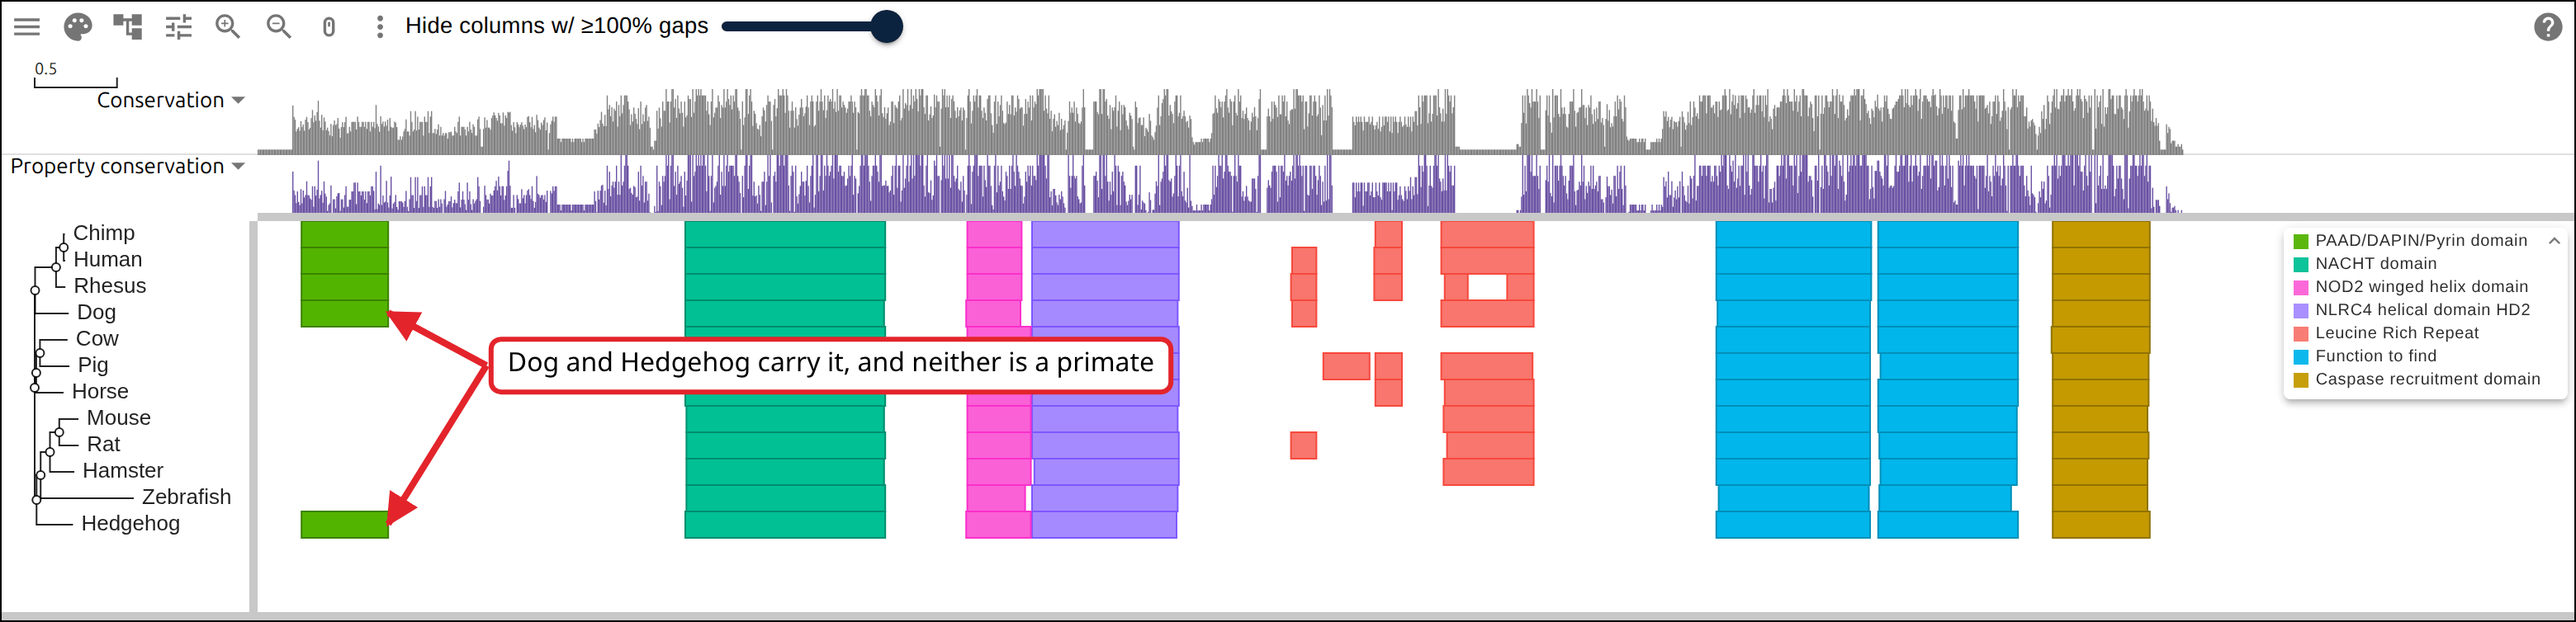
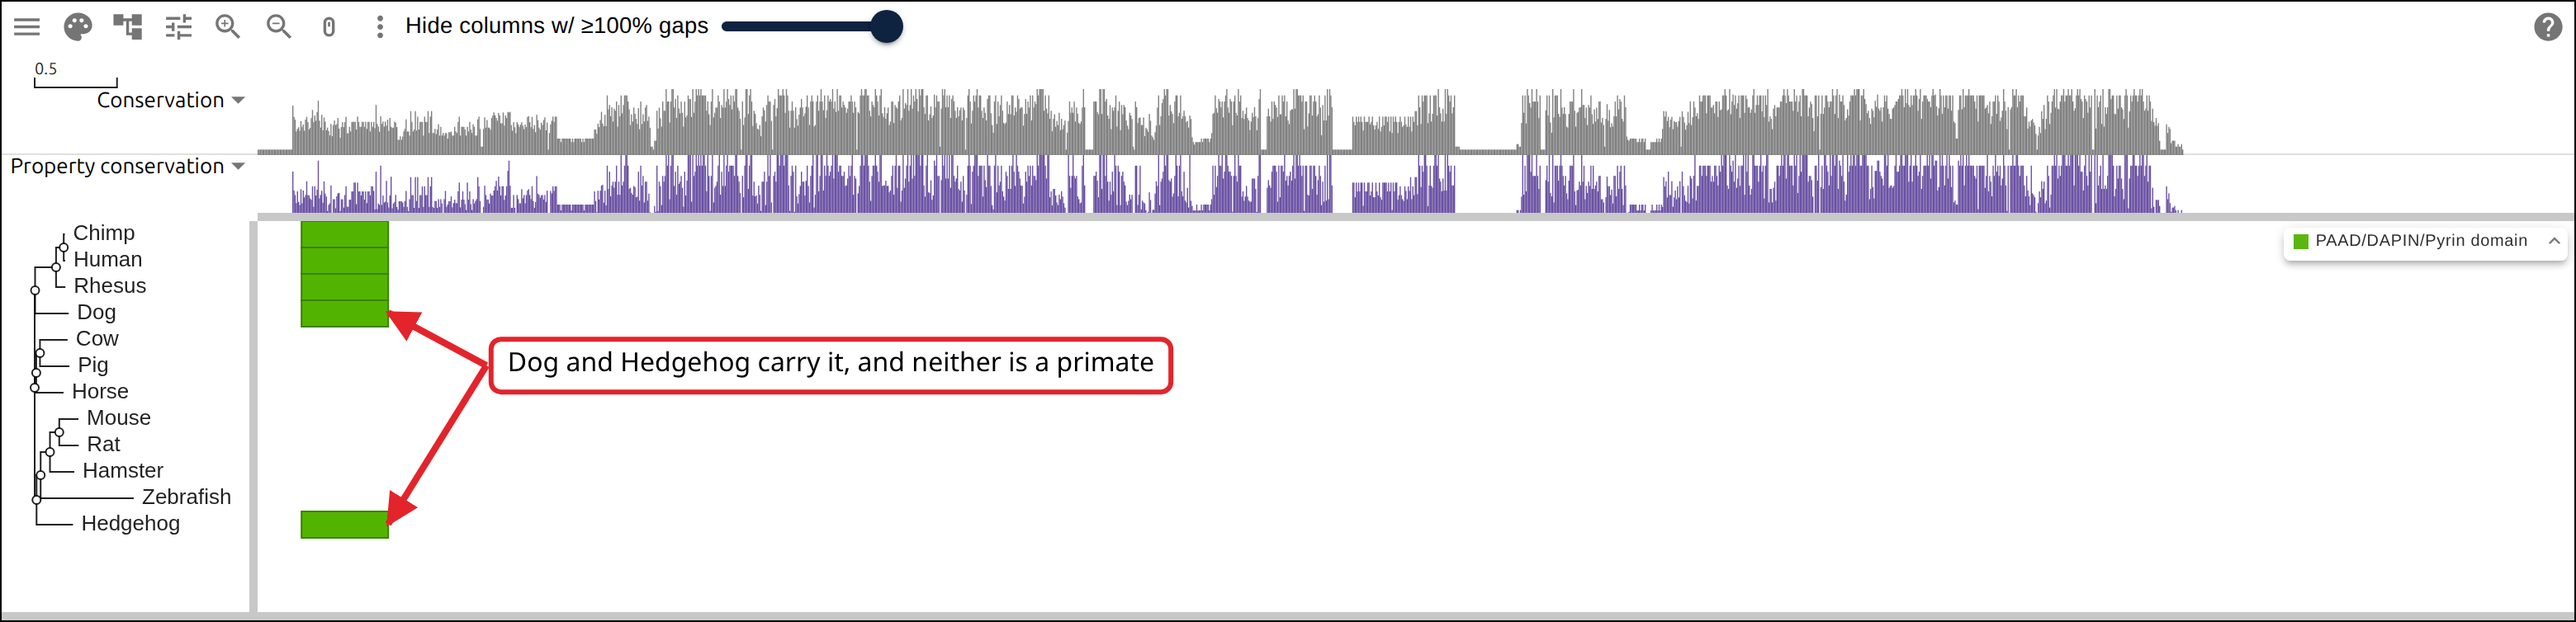
docs(tutorials): the PYD-only link hides domains through turnedOffFeatures
The model renamed featureFilters to turnedOffFeatures, where true means off,
so the link and its spec opened with every domain drawn. Regenerated the figure.
Also lists the unaligned file the first figure loads under Where the data comes
from, and drops the dash from the fetch loop's comment.

diff --git a/docs/tutorials/protein_family.md b/docs/tutorials/protein_family.md
@@ -28,6 +28,8 @@ release 110.0.
   https://rest.uniprot.org/uniprotkb/Q9C000.fasta
 - precomputed Pfam matches for that accession:
   https://www.ebi.ac.uk/interpro/api/entry/pfam/protein/uniprot/Q9C000/
+- the twelve sequences before alignment, right-padded to one width so the viewer
+  opens them: https://gmod.org/JBrowseMSA/demo/data/nlrp1-unaligned.aln
 - the alignment the commands below write, hosted so the figures can link to it:
   https://gmod.org/JBrowseMSA/demo/data/nlrp1.aln
 - its tree: https://gmod.org/JBrowseMSA/demo/data/nlrp1.nh
@@ -77,8 +79,8 @@ it.
 ## 2. Fetch the sequences
 
 ```bash
-# read each accession, write one FASTA record named by the label rather than
-# the accession -- the label is what the viewer draws
+# read each accession and write one FASTA record named by its label, which is
+# what the viewer draws down the side
 while IFS=$'\t' read -r accession label; do
   printf '>%s\n' "$label" >> family.fasta
   curl -sf "https://rest.uniprot.org/uniprotkb/$accession.fasta" |
@@ -257,7 +259,7 @@ once as the UPA-FIIND block beside it.
 
 Unchecking everything except IPR004020 leaves only the pyrin domain on screen.
 
-[![](../media/protein-family-pyd-only.png)](https://gmod.org/JBrowseMSA/demo/?data=%7B%22msaview%22%3A%7B%22type%22%3A%22MsaView%22%2C%22height%22%3A370%2C%22treeAreaWidth%22%3A150%2C%22colWidth%22%3A0.7%2C%22colorSchemeName%22%3A%22clustalx_protein_dynamic%22%2C%22featureFilters%22%3A%7B%22IPR001315%22%3Afalse%2C%22IPR001611%22%3Afalse%2C%22IPR007111%22%3Afalse%2C%22IPR025307%22%3Afalse%2C%22IPR041075%22%3Afalse%2C%22IPR041267%22%3Afalse%7D%2C%22msaFilehandle%22%3A%7B%22uri%22%3A%22data%2Fnlrp1.aln%22%7D%2C%22treeFilehandle%22%3A%7B%22uri%22%3A%22data%2Fnlrp1.nh%22%7D%2C%22gffFilehandle%22%3A%7B%22uri%22%3A%22data%2Fnlrp1-domains.gff%22%7D%7D%7D)
+[![](../media/protein-family-pyd-only.png)](https://gmod.org/JBrowseMSA/demo/?data=%7B%22msaview%22%3A%7B%22type%22%3A%22MsaView%22%2C%22height%22%3A370%2C%22treeAreaWidth%22%3A150%2C%22colWidth%22%3A0.7%2C%22colorSchemeName%22%3A%22clustalx_protein_dynamic%22%2C%22turnedOffFeatures%22%3A%7B%22IPR001315%22%3Atrue%2C%22IPR001611%22%3Atrue%2C%22IPR007111%22%3Atrue%2C%22IPR025307%22%3Atrue%2C%22IPR041075%22%3Atrue%2C%22IPR041267%22%3Atrue%7D%2C%22msaFilehandle%22%3A%7B%22uri%22%3A%22data%2Fnlrp1.aln%22%7D%2C%22treeFilehandle%22%3A%7B%22uri%22%3A%22data%2Fnlrp1.nh%22%7D%2C%22gffFilehandle%22%3A%7B%22uri%22%3A%22data%2Fnlrp1-domains.gff%22%7D%7D%7D)
 
 The overlay reduced to the pyrin domain. The three primates carry it as one
 block of rows, Dog carries it in the row right under them, and Hedgehog carries
